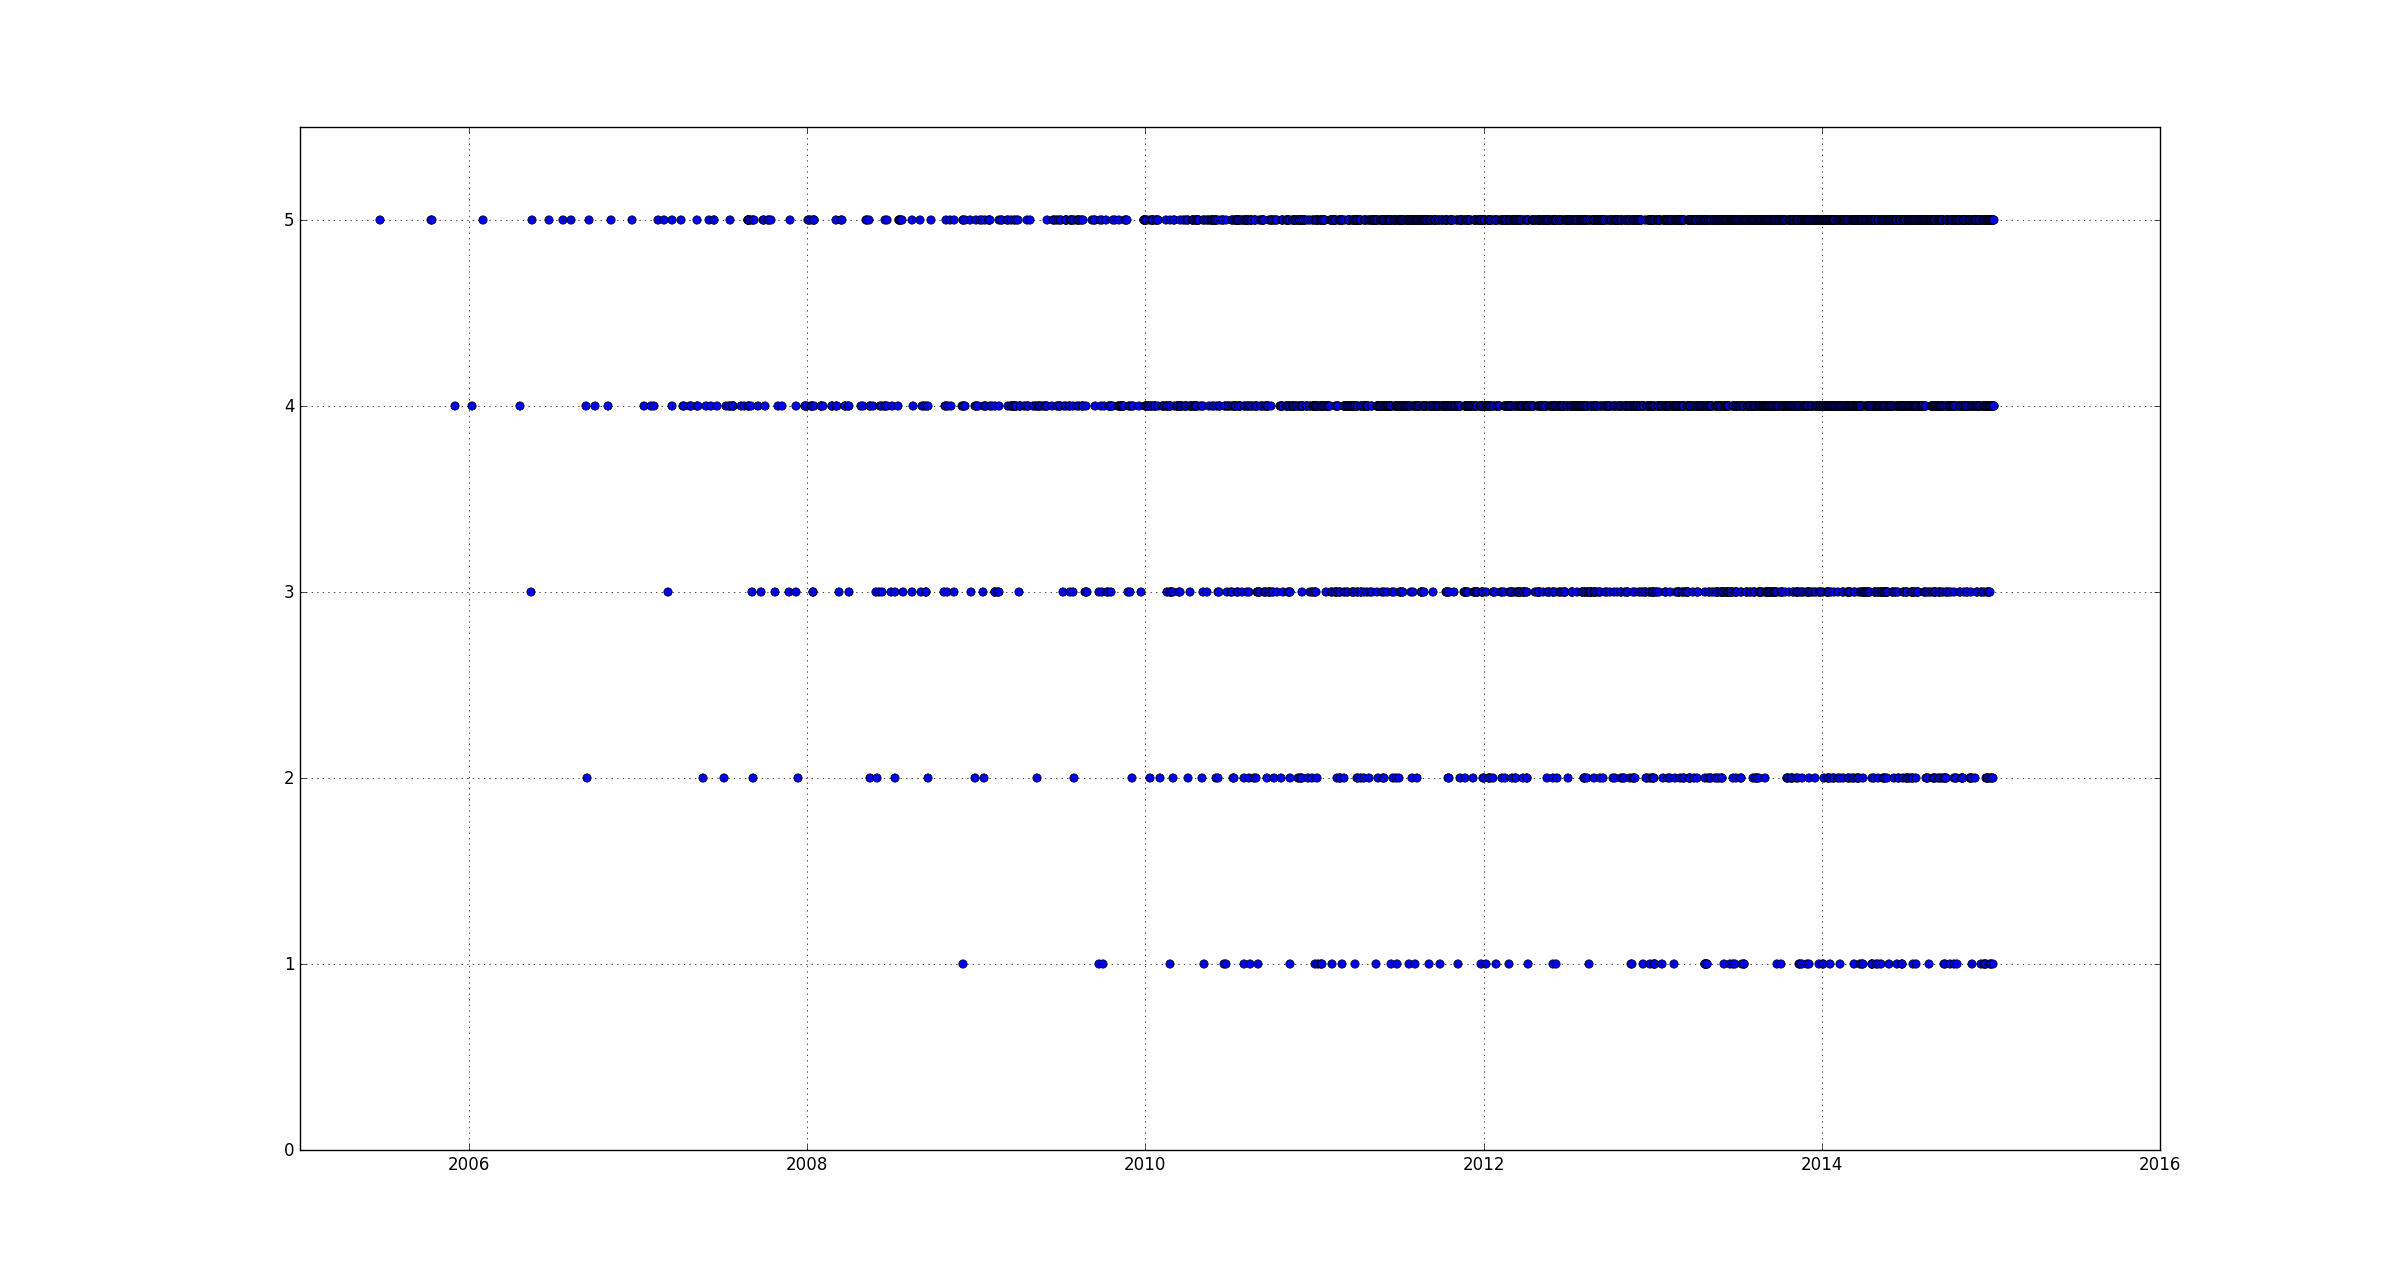
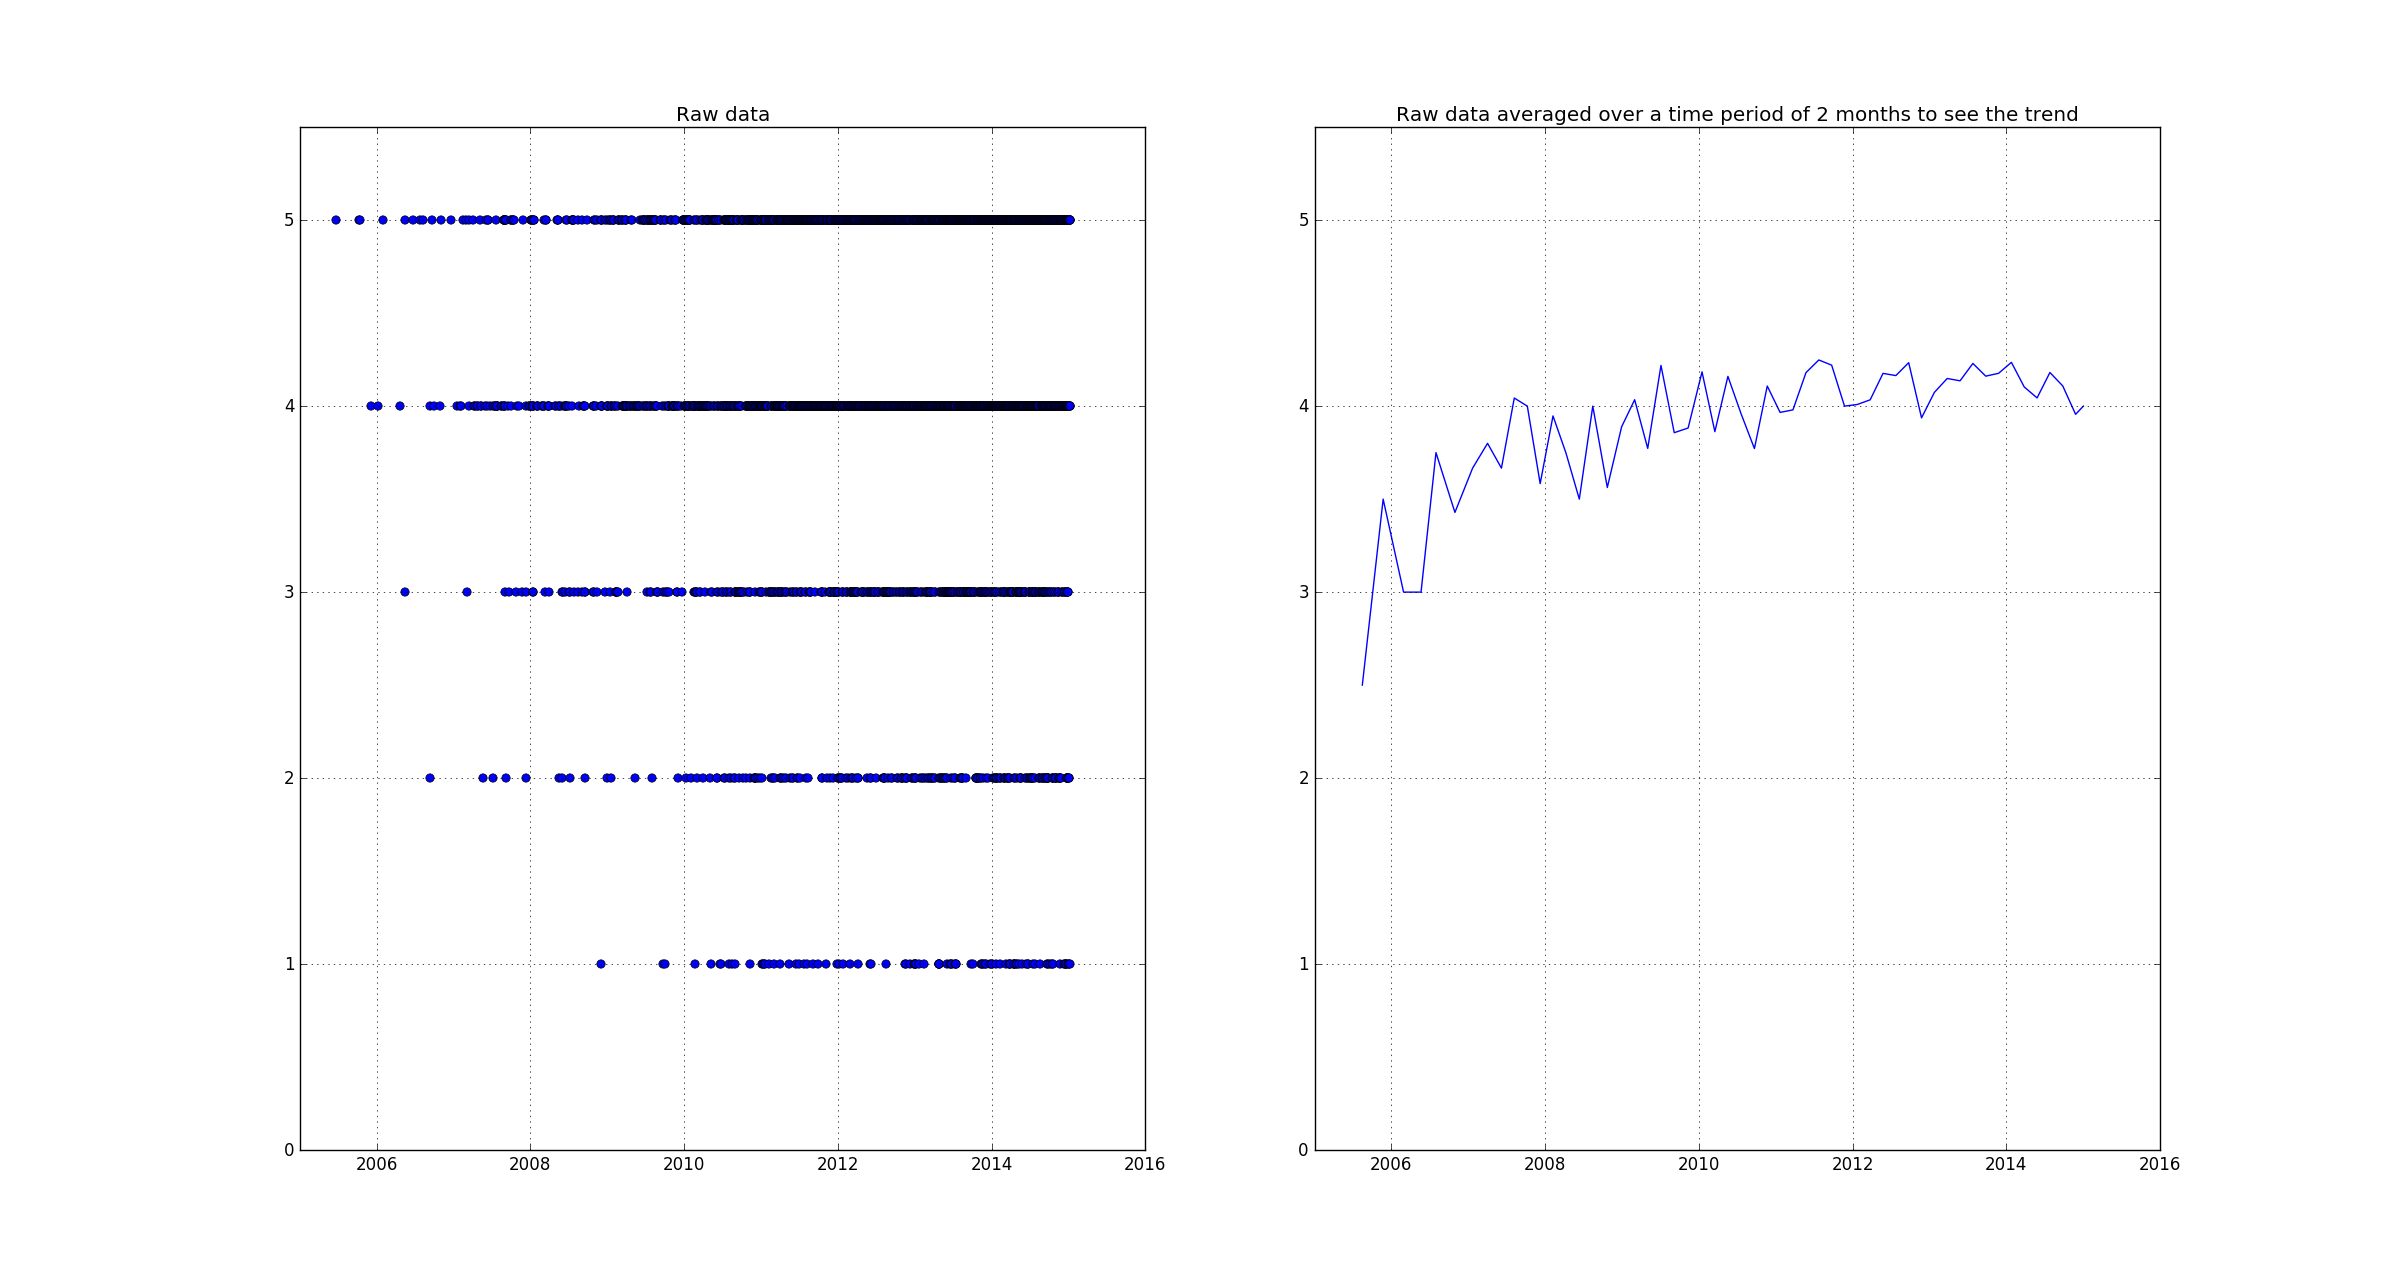
Added code to find running average of the data and plot it to see the trend. Also, found that the best city is Las Vegas.

diff --git a/plot_data.py b/plot_data.py
@@ -1,16 +1,14 @@
-import operator
 import matplotlib.pyplot as plt
-from matplotlib.dates import YearLocator, MonthLocator, DateFormatter
 import datetime
 
-business_file = 'data_files/yelp_academic_dataset_business_IL.json'
-review_file = 'data_files/yelp_academic_dataset_review_IL.json'
+business_file = 'data_files/yelp_academic_dataset_business_LV.json'
+review_file = 'data_files/yelp_academic_dataset_review_LV.json'
 review_file_2 = 'D:\Downloads\yelp_dataset_challenge_academic_dataset\yelp_dataset_challenge_academic_dataset\yelp_academic_dataset_review.json'
 
 business_ids = dict()
-with open(review_file_2, 'r') as file:
+with open(review_file, 'r') as file:
     for line in file:
-        business_id = line.split(',')[-1].split(':')[1].lstrip().rstrip()
+        business_id = line.split(',')[-1].split(':')[1].lstrip().rstrip()[1:]
         business_id = business_id[:-2]
 
         if business_id in business_ids:
@@ -24,14 +22,12 @@ max_key = max(business_ids, key=business_ids.get)
 max_value = business_ids[max_key]
 print(max_value, max_key)
 
-# max_key = '"4bEjOyTaDG24SY5TxsaUNQ'
 # Go back and plot the reviews for that business
-
 date_list = []
 star_list = []
-with open(review_file_2, 'r') as file:
+with open(review_file, 'r') as file:
     for line in file:
-        business_id = line.split(',')[-1].split(':')[1].lstrip().rstrip()
+        business_id = line.split(',')[-1].split(':')[1].lstrip().rstrip()[1:]
         business_id = business_id[:-2]
 
         if business_id == max_key:
@@ -41,12 +37,45 @@ with open(review_file_2, 'r') as file:
             date_list.append(date)
 
 
-# dates = (date_list)
+star_list = [x for (y, x) in sorted(zip(date_list, star_list))]
+date_list.sort()
+
+# Find the moving average over x months
+num_months_avg = 2
+
+current_base = 0
+i = 1
+avg_date_list = []
+avg_star_list = []
+while True:
+    diff = (date_list[i] - date_list[current_base]).days/30.0
+
+    if diff > num_months_avg:
+        avg_star_list.append(sum(star_list[current_base:i])/(i - current_base + 1))
+        inc = int((date_list[i] - date_list[current_base]).days/2)
+        avg_date_list.append(date_list[current_base] + datetime.timedelta(days=inc))
+        current_base = i
+
+    i += 1
+    if i == len(date_list)-1:
+        avg_star_list.append(sum(star_list[current_base:i])/(i - current_base + 1))
+        inc = int((date_list[i] - date_list[current_base]).days/2)
+        avg_date_list.append(date_list[current_base] + datetime.timedelta(days=inc))
+        break
+
+
 x_lim = [datetime.date(2005, 1, 1), datetime.date(2016, 1, 1)]
-fig, plot_d = plt.subplots()
+fig, (plot_d, plot_avg) = plt.subplots(1, 2)
 plot_d.plot_date(date_list, star_list)
 plot_d.grid(True)
 plot_d.set_xlim(x_lim)
 plot_d.set_ylim([0, 5.5])
+plot_d.set_title('Raw data')
+plot_avg.plot_date(avg_date_list, avg_star_list, '-')
+plot_avg.grid(True)
+plot_avg.set_xlim(x_lim)
+plot_avg.set_ylim([0, 5.5])
+plot_avg.set_title('Raw data averaged over a time period of %d months to see the trend' % num_months_avg)
+
 plt.show()
 

diff --git a/find_best_city_data.py b/find_best_city_data.py
@@ -1,0 +1,88 @@
+import ast
+import pprint
+import string
+import json
+
+from nltk.tokenize import word_tokenize
+from nltk.corpus import stopwords
+from nltk.stem.porter import PorterStemmer
+
+data_file = 'D:\Downloads\yelp_dataset_challenge_academic_dataset\yelp_dataset_challenge_academic_dataset\yelp_academic_dataset_business.json'
+out_file = 'data_files/yelp_academic_dataset_business_LV.json'
+
+selected_city = 'Las Vegas'
+
+print("Reading the business file")
+out = open(out_file, 'w')
+business_id_set = set()
+# city_list = dict()
+
+with open(data_file, 'r') as file:
+    for line in file:
+        business_id = line.split(',')[0].split(':')[1]
+        # json_acceptable_string = line.replace("'", "\"")
+        # data = json.loads(json_acceptable_string)
+        # print json_acceptable_string
+        # temp_dict = ast.literal_eval(json_acceptable_string)
+
+        city = line.split('"city": ')[1].split(',')[0][1:-1]
+        # if city in city_list:
+        #     city_list[city] += 1
+        # else:
+        #     city_list[city] = 1
+
+        if city == selected_city:
+            business_id_set.add(business_id)
+            out.write(line)
+
+out.close()
+# pprint.pprint(city_list)
+# max_key = max(city_list, key=city_list.get)
+# max_value = city_list[max_key]
+# print(max_value, max_key)
+
+review_file = 'D:\Downloads\yelp_dataset_challenge_academic_dataset\yelp_dataset_challenge_academic_dataset\yelp_academic_dataset_review.json'
+out_file = 'data_files/yelp_academic_dataset_review_LV.json'
+
+print("Reading the reviews file")
+out = open(out_file, 'w')
+with open(review_file, 'r') as file:
+    for line in file:
+        business_id = line.split(',')[-1].split(':')[1]
+        business_id = business_id[:-2]
+        if business_id in business_id_set:
+            # print business_id
+            out.write(line)
+
+out.close()
+
+review_file = 'D:\Downloads\yelp_dataset_challenge_academic_dataset\yelp_dataset_challenge_academic_dataset\yelp_academic_dataset_checkin.json'
+out_file = 'data_files/yelp_academic_dataset_checkin_LV.json'
+
+print("Reading the check in file")
+out = open(out_file, 'w')
+with open(review_file, 'r') as file:
+    for line in file:
+        business_id = line.split(',')[-1].split(':')[1]
+        business_id = business_id[:-2]
+        if business_id in business_id_set:
+            # print business_id
+            out.write(line)
+
+out.close()
+
+# review_file = 'data_files/yelp_academic_dataset_tip.json'
+# out_file = 'data_files/yelp_academic_dataset_tip_IL.json'
+#
+# print "Reading the tips file"
+# out = open(out_file, 'w')
+# with open(review_file, 'r') as file:
+#     for line in file:
+#
+#         business_id = line.split('business_id')[1].split(':')[1].split(',')[0].strip().lstrip()
+#         if business_id in business_id_set:
+#             # print business_id
+#             out.write(line)
+#
+# out.close()
+
